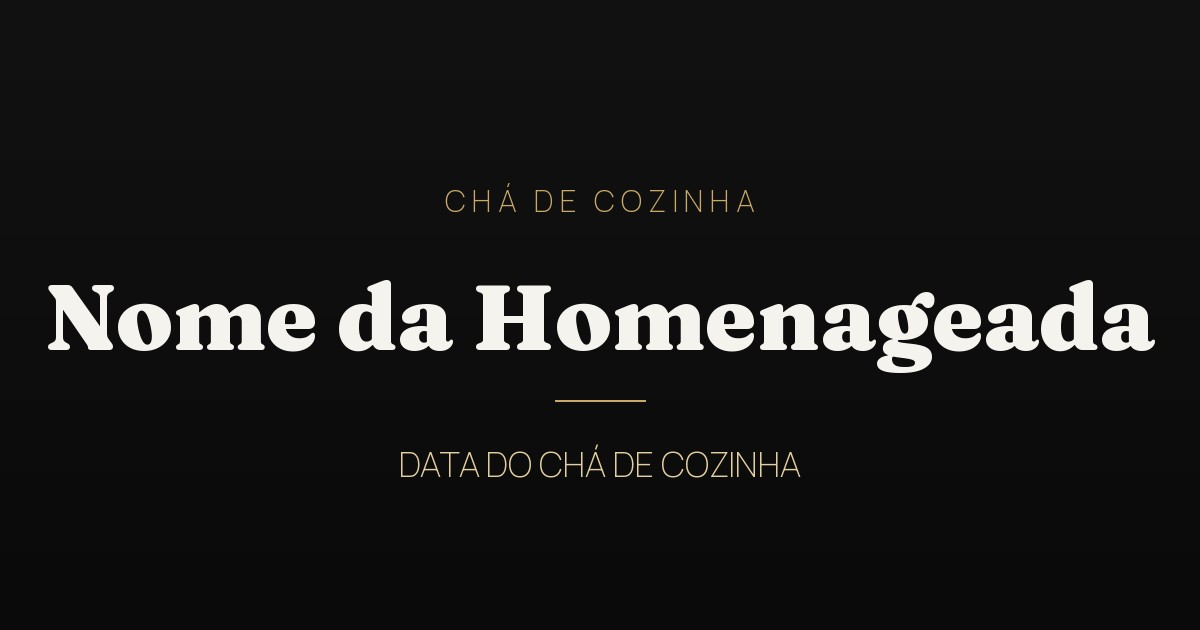
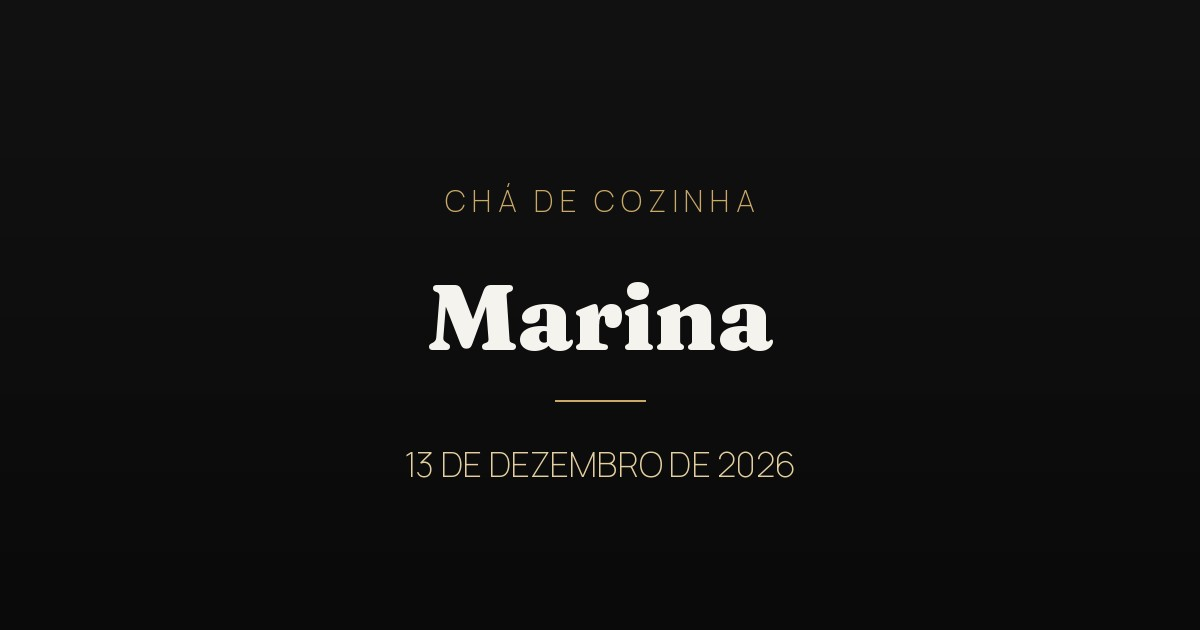
Preenche modelo com dados ficticios (Marina) ate os dados reais do cliente chegarem

Changed region(s): [[0.0308, 0.4524, 0.9558, 0.6032], [0.3392, 0.6937, 0.6783, 0.754]]

diff --git a/assets/js/config.js b/assets/js/config.js
@@ -11,11 +11,11 @@ const CONVITE_CONFIG = {
      1. IDENTIDADE DA HOMENAGEADA
   --------------------------------------------------------------------- */
   homenageada: {
-    nomeCompleto: "Nome Completo da Homenageada",
-    primeiroNome: "Nome",
+    nomeCompleto: "Marina Ferreira",
+    primeiroNome: "Marina",
     // Usado no monograma SVG animado (tela de loading + hero + rodapé).
     // Pode ser uma letra só ("N") ou algo curto como "N.S."
-    monograma: "N"
+    monograma: "M"
   },
 
   /* ---------------------------------------------------------------------
@@ -37,7 +37,7 @@ const CONVITE_CONFIG = {
   --------------------------------------------------------------------- */
   hero: {
     imagemFundo: "assets/images/hero.jpg",
-    frase: "Uma frase carinhosa ou versículo para abrir o convite.",
+    frase: "Estou montando a minha nova casinha e cada detalhe fica ainda mais especial com você por perto.",
     textoBotao: "Ver Convite"
   },
 
@@ -46,9 +46,9 @@ const CONVITE_CONFIG = {
      Formato ISO 8601 — usado pela contagem regressiva.
   --------------------------------------------------------------------- */
   evento: {
-    dataISO: "2026-11-21T15:00:00",
-    dataFormatada: "21 de Novembro de 2026",
-    diaSemana: "Sábado",
+    dataISO: "2026-12-13T15:00:00",
+    dataFormatada: "13 de Dezembro de 2026",
+    diaSemana: "Domingo",
     horario: "15h00"
   },
 
@@ -81,15 +81,15 @@ const CONVITE_CONFIG = {
   --------------------------------------------------------------------- */
   cerimonia: {
     titulo: "Chá de Cozinha",
-    local: "Nome do local (salão, casa, etc.)",
-    endereco: "Endereço completo do evento",
-    data: "21 de Novembro de 2026",
+    local: "Espaço Jardim Flor de Lis",
+    endereco: "Av. Perimetral, Qd. 12, Lt. 05, Setor Central, Senador Canedo - GO",
+    data: "13 de Dezembro de 2026",
     horario: "15h",
-    linkMaps: "https://maps.google.com/?q=Endereco+do+evento",
+    linkMaps: "https://maps.google.com/?q=Espaco+Jardim+Flor+de+Lis+Senador+Canedo",
     // Mapa embutido por busca de endereço (sem API key, sem precisar de
     // latitude/longitude na mão — o Google localiza a partir do texto
     // abaixo). Se quiser trocar o local, só editar essa linha.
-    mapaQuery: "Endereço completo do evento"
+    mapaQuery: "Espaço Jardim Flor de Lis, Av. Perimetral, Setor Central, Senador Canedo - GO"
   },
 
   /* ---------------------------------------------------------------------
@@ -98,7 +98,7 @@ const CONVITE_CONFIG = {
   presentes: {
     titulo: "Lista de Presentes",
     subtitulo: "Sua presença é o nosso maior presente. Mas se desejar contribuir com a nova cozinha, preparamos esta lista com carinho.",
-    chavePix: "chave-pix@email.com",
+    chavePix: "marina.ferreira@email.com",
     tipoChave: "E-mail",
     itens: [
       {
@@ -174,10 +174,10 @@ const CONVITE_CONFIG = {
     // Ou seja: se mudar titulo/descricao aqui, troque também as mesmas
     // tags no <head> do index.html, senão o preview do link continua
     // mostrando o texto genérico antigo.
-    titulo: "Chá de Cozinha da Nome | Data do Chá",
-    descricao: "Você está convidado para o chá de cozinha da Nome.",
+    titulo: "Chá de Cozinha da Marina | 13 de Dezembro de 2026",
+    descricao: "Você está convidado para o chá de cozinha da Marina.",
     imagemPreview: "assets/images/share-preview.jpg",
-    urlSite: "https://seusite.com.br"
+    urlSite: "https://chadacozinha-marina.vercel.app"
   }
 
 };

diff --git a/index.html b/index.html
@@ -3,10 +3,10 @@
 <head>
   <meta charset="UTF-8">
   <meta name="viewport" content="width=device-width, initial-scale=1.0, viewport-fit=cover">
-  <title>Chá de Cozinha da Nome | Data do Chá</title>
-  <meta name="description" content="Você está convidado para o chá de cozinha da Nome.">
-  <meta property="og:title" content="Chá de Cozinha da Nome | Data do Chá">
-  <meta property="og:description" content="Você está convidado para o chá de cozinha da Nome.">
+  <title>Chá de Cozinha da Marina | 13 de Dezembro de 2026</title>
+  <meta name="description" content="Você está convidado para o chá de cozinha da Marina.">
+  <meta property="og:title" content="Chá de Cozinha da Marina | 13 de Dezembro de 2026">
+  <meta property="og:description" content="Você está convidado para o chá de cozinha da Marina.">
   <meta property="og:type" content="website">
   <meta property="og:image" content="assets/images/share-preview.jpg">
   <meta property="og:image:width" content="1200">
@@ -38,7 +38,7 @@
   <div id="loading-screen" aria-hidden="true">
     <div class="loading-monogram">
       <svg viewBox="0 0 200 100" class="monogram-svg" id="loading-svg">
-        <text x="100" y="65" text-anchor="middle" class="monogram-text">N</text>
+        <text x="100" y="65" text-anchor="middle" class="monogram-text">M</text>
       </svg>
     </div>
     <div class="loading-bar"><span></span></div>
@@ -84,10 +84,10 @@
       <p class="hero-eyebrow" id="hero-data">— chá de cozinha —</p>
       <div class="hero-monogram">
         <svg viewBox="0 0 240 120" class="monogram-svg-hero">
-          <text x="120" y="80" text-anchor="middle" class="monogram-text-hero" id="hero-monogram-text">N</text>
+          <text x="120" y="80" text-anchor="middle" class="monogram-text-hero" id="hero-monogram-text">M</text>
         </svg>
       </div>
-      <h1 class="hero-names" id="hero-names">Nome da Homenageada</h1>
+      <h1 class="hero-names" id="hero-names">Marina</h1>
       <p class="hero-phrase" id="hero-phrase"></p>
       <a href="#mensagem" class="btn btn-outline hero-btn" id="hero-btn">
         <span>Ver Convite</span>
@@ -116,7 +116,7 @@
     <section class="section countdown-section" id="countdown">
       <div class="container">
         <p class="section-eyebrow light" data-aos="fade-up">Contagem regressiva</p>
-        <h2 class="section-title light" data-aos="fade-up" data-aos-delay="100" id="countdown-data">Data do Chá de Cozinha</h2>
+        <h2 class="section-title light" data-aos="fade-up" data-aos-delay="100" id="countdown-data">13 de Dezembro de 2026</h2>
         <div class="countdown-grid" data-aos="fade-up" data-aos-delay="200" id="countdown-grid">
           <div class="countdown-item">
             <span class="countdown-number" id="cd-dias">00</span>
@@ -223,10 +223,10 @@
   ============================================================ -->
   <footer class="footer">
     <svg viewBox="0 0 200 100" class="monogram-svg-footer">
-      <text x="100" y="65" text-anchor="middle" class="monogram-text-footer" id="footer-monogram">N</text>
+      <text x="100" y="65" text-anchor="middle" class="monogram-text-footer" id="footer-monogram">M</text>
     </svg>
-    <p id="footer-names">Nome da Homenageada</p>
-    <p class="footer-date" id="footer-data">DD · MM · AAAA</p>
+    <p id="footer-names">Marina</p>
+    <p class="footer-date" id="footer-data">13 · 12 · 2026</p>
   </footer>
 
   <!-- Scripts -->
